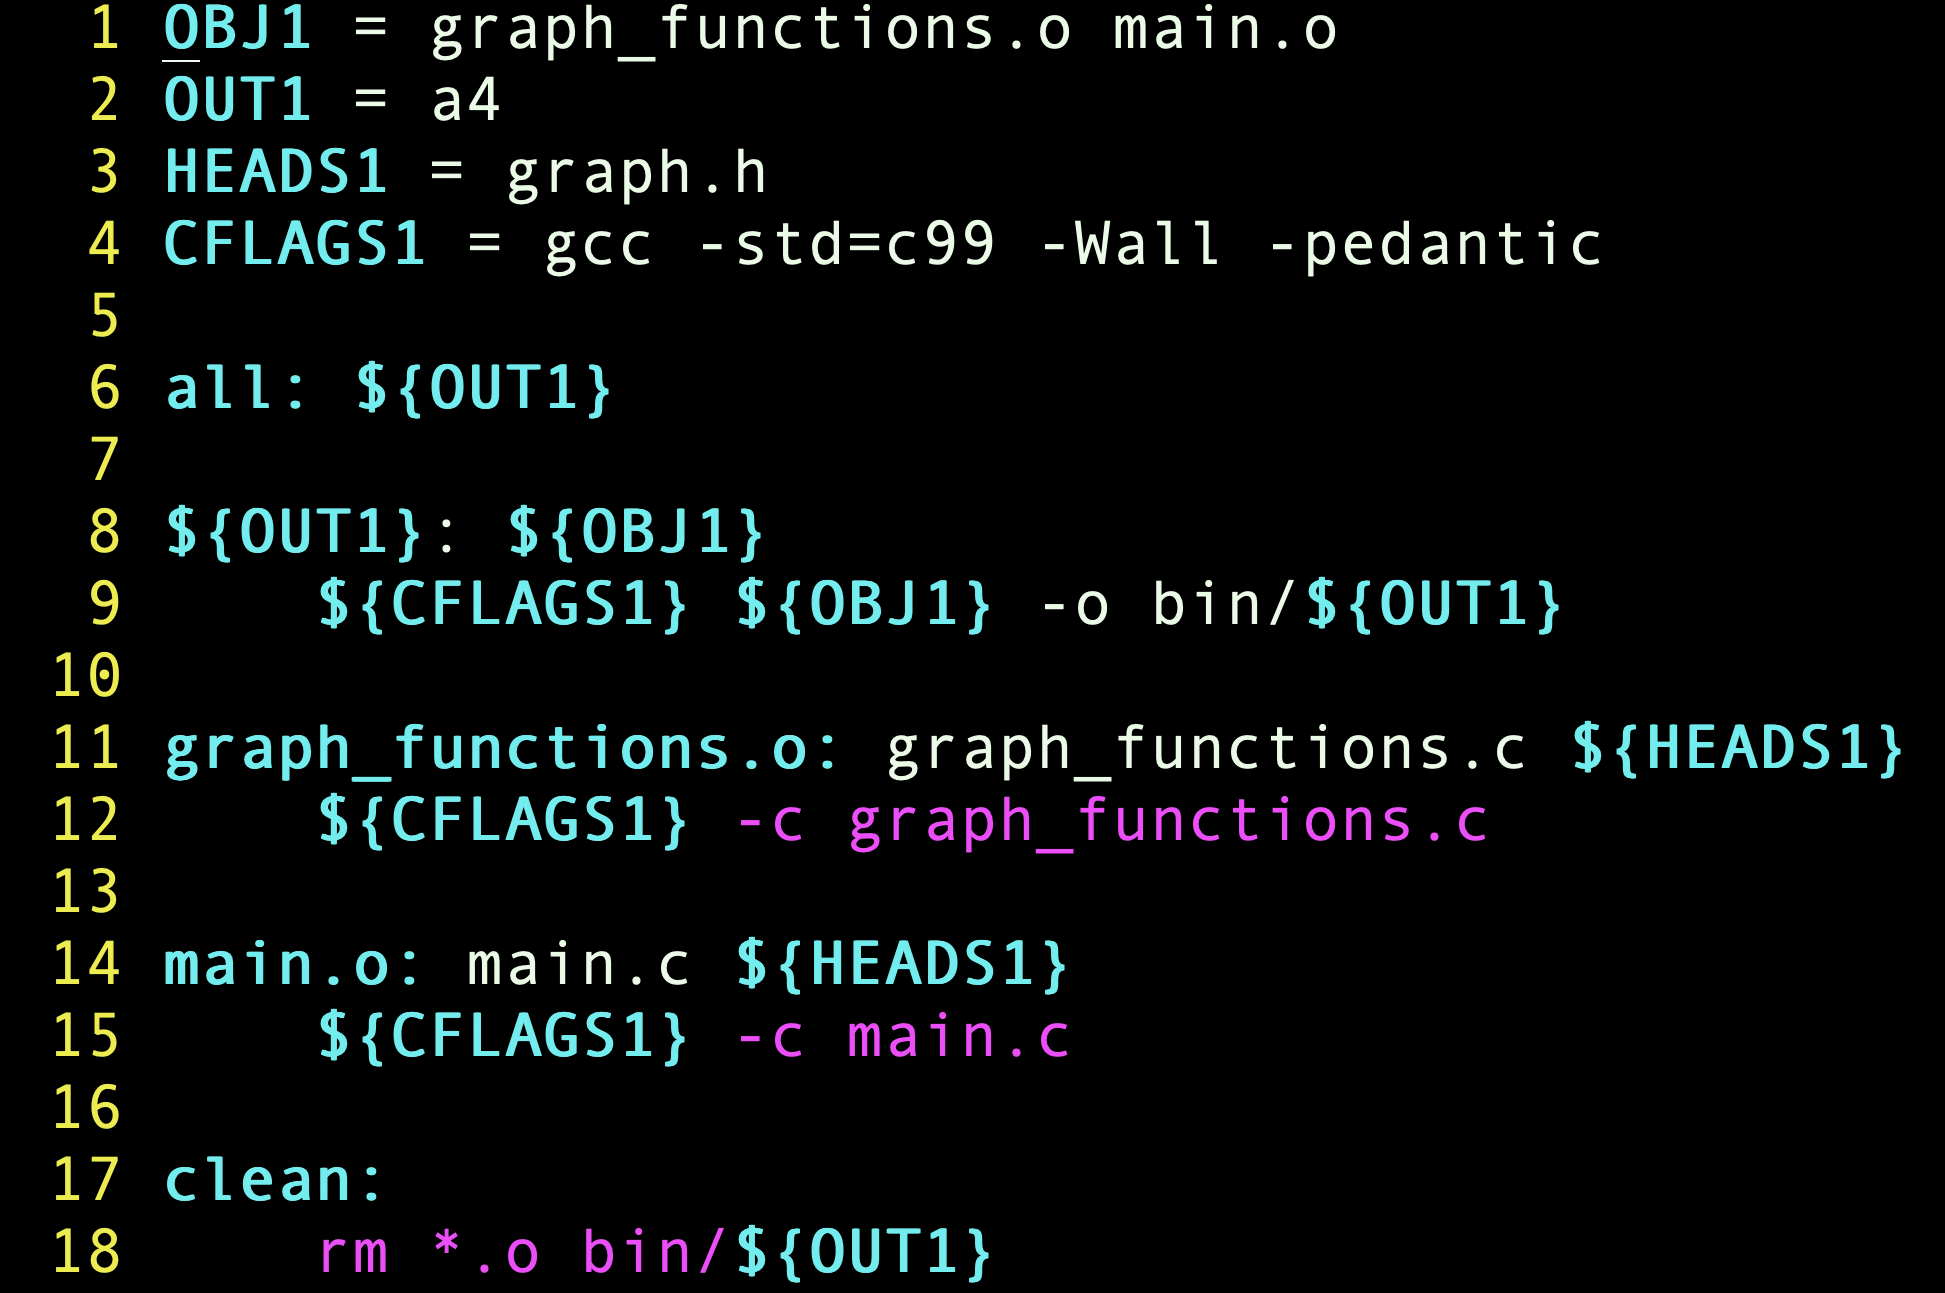
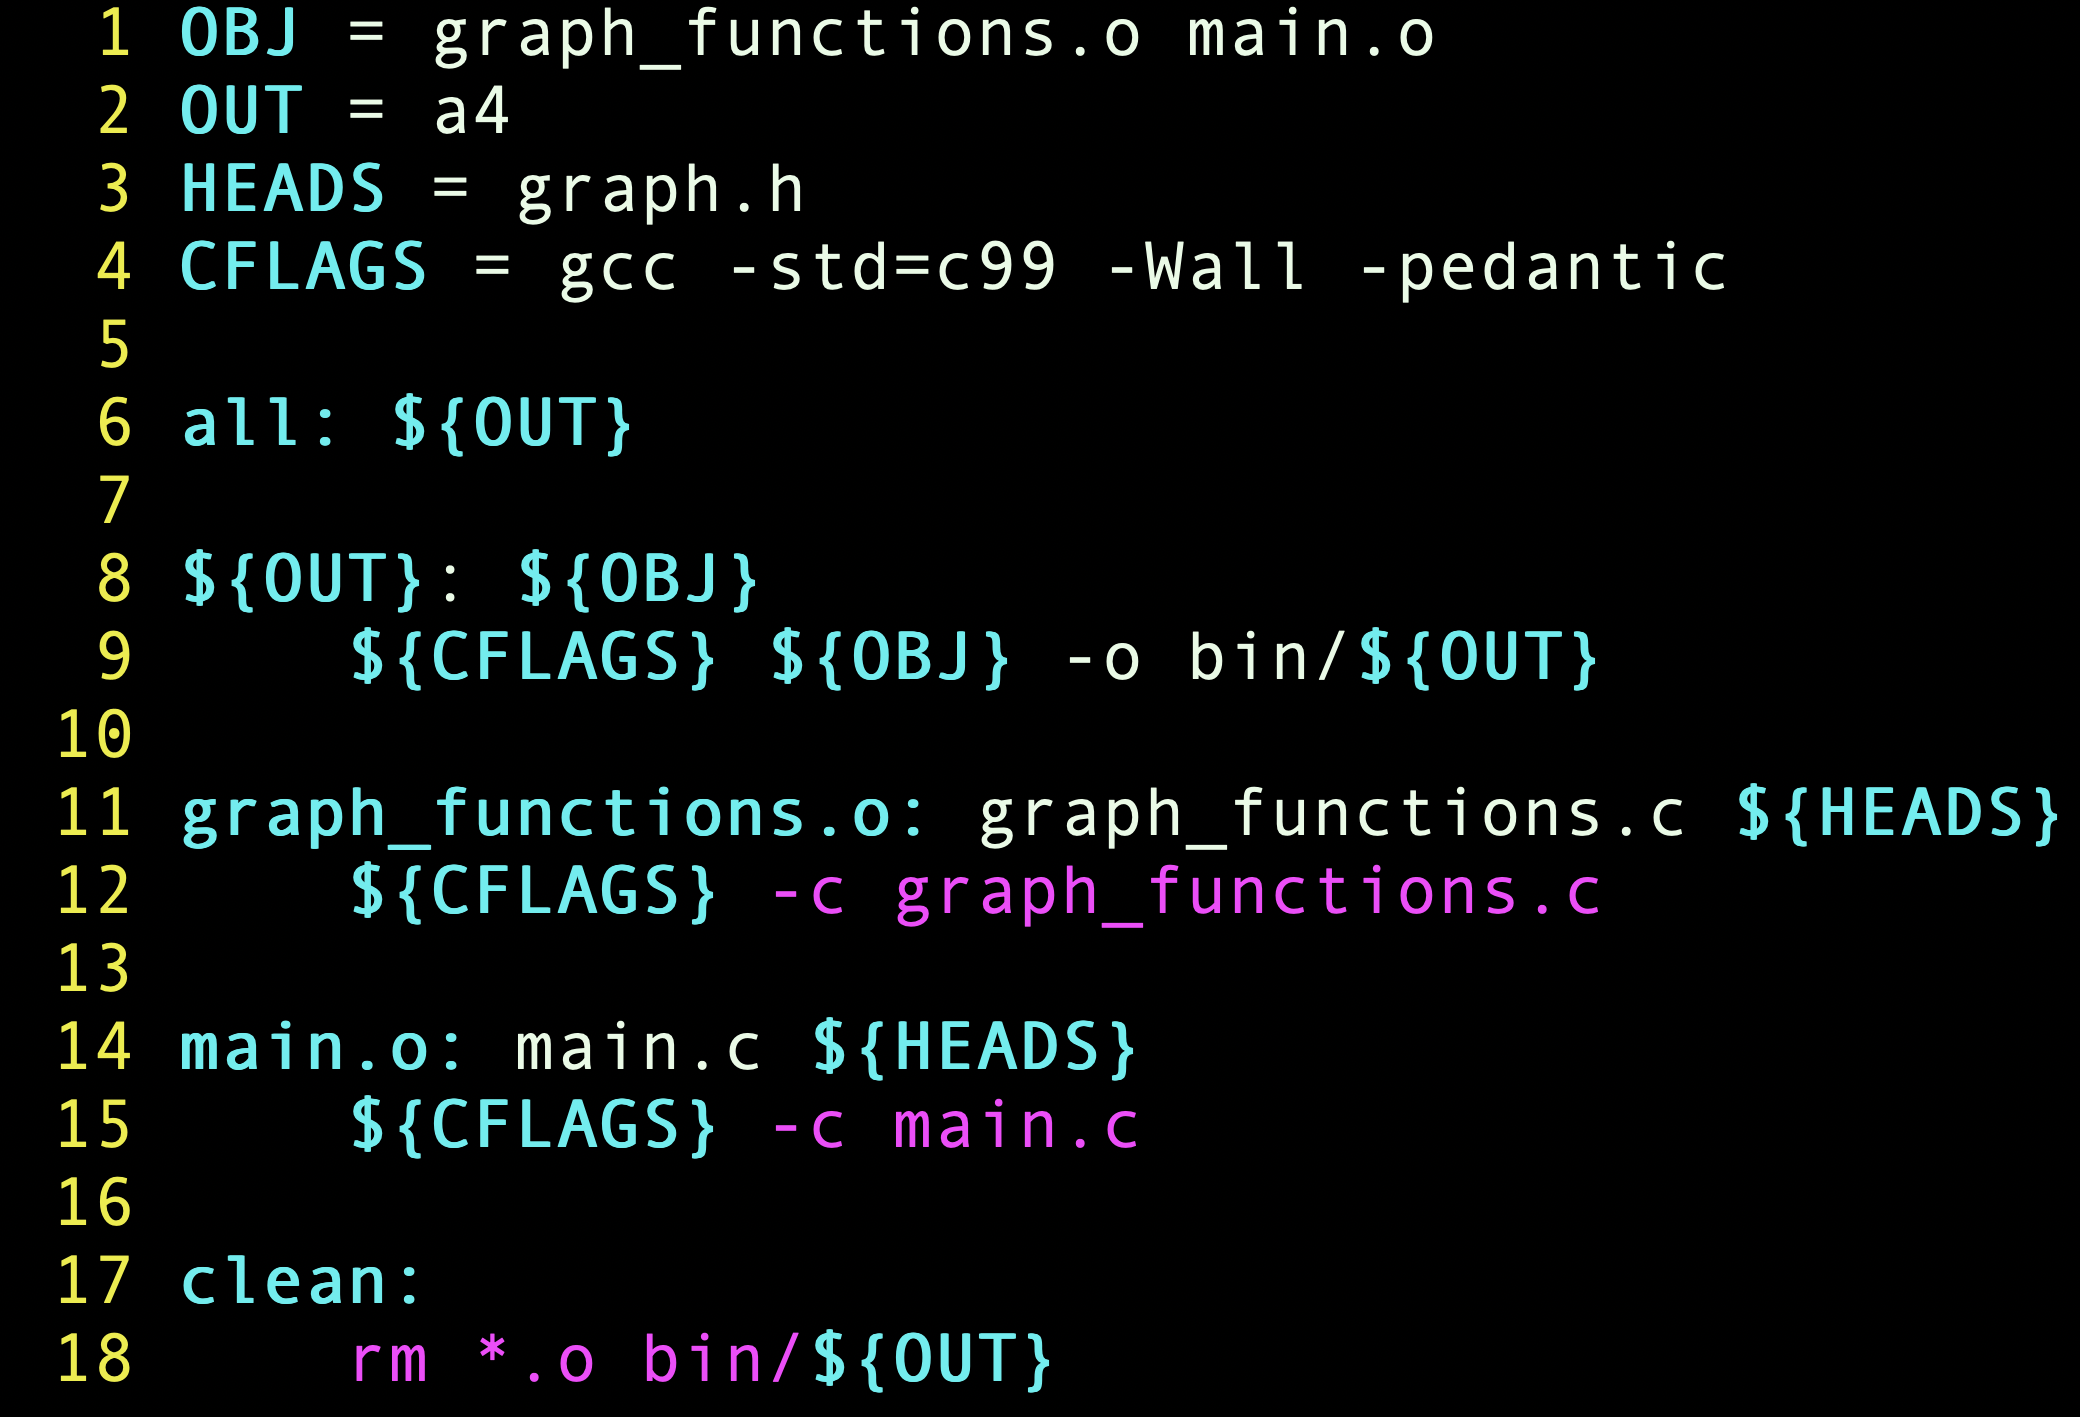
Changed makefile variable naming convention

diff --git a/src/main.rs b/src/main.rs
@@ -29,9 +29,11 @@ fn main() {
 	// TODO: Try to combine these next three loops somehow
 	// Write the all command for each target file
 	file.write_all(b"all:").unwrap();
-	for i in 1..objects.len()+1 {
+	for i in 0..objects.len() {
 		let mut out : String = " ${OUT".to_string();
-		out.push_str(&i.to_string());
+		if i != 0 {
+			out.push_str(&i.to_string());
+		}
 		file.write_all(out.as_bytes()).unwrap();
 		file.write_all(b"}").unwrap();
 	}
@@ -45,14 +47,16 @@ fn main() {
 		let mut flags : String = "\n\t${CFLAGS".to_string();
 		let mut heads : String = " ${HEADS".to_string();
 
-		let temp = i + 1;
-		out.push_str(&temp.to_string());
+		if i != 0 {
+			out.push_str(&i.to_string());
+			obj.push_str(&i.to_string());
+			flags.push_str(&i.to_string());
+			heads.push_str(&i.to_string());
+		}
+
 		out.push_str("}");
-		obj.push_str(&temp.to_string());
 		obj.push_str("}");
-		flags.push_str(&temp.to_string());
 		flags.push_str("}");
-		heads.push_str(&temp.to_string());
 		heads.push_str("}");
 
 		file.write_all(out.as_bytes()).unwrap();
@@ -81,12 +85,16 @@ fn main() {
 	}
 
 	file.write_all(b"clean:\n\trm *.o").unwrap();
-	for i in 1..objects.len()+1 {
+	for i in 0..objects.len() {
 		let mut out : String = " ${OUT".to_string();
 		if BIN {
 			out = " bin/${OUT".to_string();
 		}
-		out.push_str(&i.to_string());
+
+		if i != 0 {
+			out.push_str(&i.to_string());
+		}
+
 		out.push_str("}");
 		file.write_all(out.as_bytes()).unwrap();
 	}
@@ -118,11 +126,12 @@ fn create_targets(args : Vec<String>, file : &mut std::fs::File, objects : &mut 
 	let mut header_files : String = "HEADS".to_string();
 	let mut flags : String = "CFLAGS".to_string();
 
-	let temp = target + 1;
-	obj_var.push_str(&temp.to_string());
-    out_file.push_str(&temp.to_string());
-	header_files.push_str(&temp.to_string());
-	flags.push_str(&temp.to_string());
+	if target != 0 {
+		obj_var.push_str(&target.to_string());
+    	out_file.push_str(&target.to_string());
+		header_files.push_str(&target.to_string());
+		flags.push_str(&target.to_string());
+	}
 
 	obj_var.push_str(" =");
     out_file.push_str(" = ");
